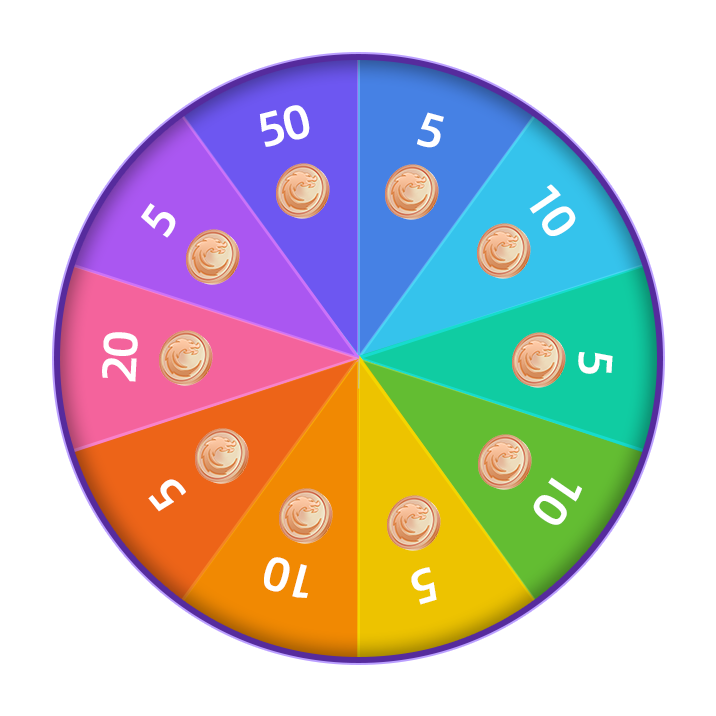
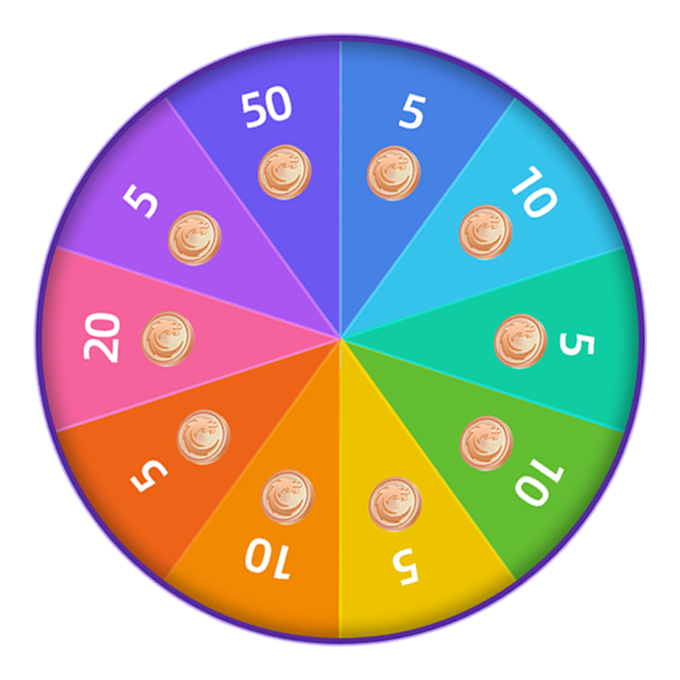
optimized spinwheel

diff --git a/src/components/SpinWheel/SpinWheel.tsx b/src/components/SpinWheel/SpinWheel.tsx
@@ -1,16 +1,52 @@
-import { LargeTitle, Spinner } from "@telegram-apps/telegram-ui";
+import { Spinner } from "@telegram-apps/telegram-ui";
 import { FC, useEffect, useState } from "react";
-import { Coins } from "../Coins/coins";
 import { UseDashFunCoins } from "../DashFun/DashFunCoins";
 import { useDashFunSpinWheel } from "../DashFun/DashFunSpinWheel";
 import { GameData } from "../DashFunData/GameData";
 import { SpinWheelConstants } from "../DashFunData/SpinWheelData";
 import { DashFunUser } from "../DashFunData/UserData";
+import { SpinWheelStatusChangedEvent } from "../Event/Events";
 import PrizePage from "./PrizePage";
 import "./spinwheel.css";
-import { SpinWheelStatusChangedEvent } from "../Event/Events";
 
-const SpinWheel: FC<{ game: GameData | null, user: DashFunUser | null }> = ({ game, user }) => {
+// const test = () => {
+//   const s = 1200;
+//   const v0 = 720;
+//   const step = 0.1;
+//   const [acc, t] = calcAcceleration(s, v0, 0);
+//   console.log("start moving:", "s=" + s, "V0=" + v0, "t=" + t, "acc=" + acc)
+//   let velocity = v0;
+//   let distance = s;
+//   for (let i = 0; i <= t; i += step) {
+//     let move = velocity * step + 0.5 * acc * (step * step);
+//     if (move < 1) move = 1;
+//     distance -= move;
+//     velocity += acc * step;
+
+//     console.log(`第${i}秒，移动 ${move}，速度 ${velocity} 剩余距离 ${distance}`)
+//   }
+// }
+
+const AniSetting = {
+  idleTime: 0.5, //起步发呆时间
+  MaxSpeed: 720, //最高速度 °/s
+  acceleDist: 360 * 3, //加速距离
+  acceleTime: 2, //加速时间，速度从0-maxSpeed
+  RunTime: 2, //平稳时间，保持maxSpeed
+  deceleTime: 2.5, //减速时间，速度从maxSpeed-0
+  deceleDist: 0, //减速距离，平稳期最后一帧生成
+}
+
+//计算匀速运动的加速度
+//@return [acc,t]
+const calcAcceleration = (s: number, v0: number, vf: number): [number, number] => {
+  const acc = (vf * vf - v0 * v0) / (2 * s);
+  const t = (vf - v0) / acc;
+  console.log("s", s, "v0", v0, "t", t, "acc", acc)
+  return [acc, t]
+}
+
+const SpinWheel: FC<{ game: GameData | null, user: DashFunUser | null }> = () => {
   const [isSpinning, setIsSpinning] = useState<boolean>(false);
   const [rotationAngle, setRotationAngle] = useState<number>(0); // 当前旋转角度
 
@@ -42,68 +78,164 @@ const SpinWheel: FC<{ game: GameData | null, user: DashFunUser | null }> = ({ ga
     // 从服务器获取得分
     const spinRes = await spin();
     if (spinRes) {
-
-      SpinWheelStatusChangedEvent.fire(spinRes.id, spinRes.status);
-
       const { rewardIndex } = spinRes;
 
       // 计算分区中心，确保转盘停在分区正中间
-      const fullRotations = 5 * 360; // 至少旋转5圈
+      // const fullRotations = 5 * 360; // 至少旋转5圈
       // const finalSegmentAngle = prizeIndex * segmentAngle; // 得分对应的分区角度
       const finalSegmentAngle = rewardIndex * segmentAngle; // 得分对应的分区角度
 
+
       // 计算分区的中心位置 (加上分区的一半 18度)
-      const targetAngle =
-        fullRotations + (360 - finalSegmentAngle - segmentAngle / 2);
+      const targetAngle = 360 - (finalSegmentAngle + segmentAngle * 0.5);
+      console.log("reward:", spinRes.rewardIndex, finalSegmentAngle, targetAngle)
 
-      const spinDuration = 5000; // 动画时长5秒
-
-      animateSpin(targetAngle, spinDuration, () => {
+      animateSpin1(targetAngle, () => {
         setCanClaim(true);
         setIsSpinning(false); // 允许再次旋转
+        SpinWheelStatusChangedEvent.fire(spinRes.id, spinRes.status);
       });
     }
   };
 
   // 旋转动画函数，逐渐减速停止
-  const animateSpin = (
+  const animateSpin1 = (
     targetAngle: number,
-    duration: number,
     onComplete: () => void
   ) => {
+
     const startTime = performance.now();
-    const currentAngle = rotationAngle; // 从当前角度开始旋转
+
+    const spinAni = {
+      lastTime: startTime,
+      deltaTime: 0,
+      elapsedTime: 0,
+      phase: 0, //0=停止阶段，1=加速阶段，2=匀速阶段，3=减速阶段
+      acc: 0, //当前加速度
+      velocity: 0, //当前速度
+      angle: 0, //当前角度
+    }
 
     const step = (timestamp: number) => {
-      const elapsedTime = timestamp - startTime;
+      spinAni.deltaTime = (timestamp - spinAni.lastTime) / 1000;
+      spinAni.lastTime = timestamp
+      switch (spinAni.phase) {
+        case 0:
+          //等半秒开始转
+          if (spinAni.elapsedTime > AniSetting.idleTime) {
+            //计算起步阶段的加速度
+            const [acc, t] = calcAcceleration(AniSetting.acceleDist, 0, AniSetting.MaxSpeed);
+            // spinAni.acc = calcAcceleration(AniSetting.acceleDist, 0, AniSetting.MaxSpeed, AniSetting.acceleTime);
+            spinAni.acc = acc;
+            AniSetting.acceleTime = t;
+            spinAni.phase = 1;
+          }
+          break;
+        case 1:
+          //起步
+          if (spinAni.angle < AniSetting.acceleDist) {
+            let move = spinAni.velocity * spinAni.deltaTime + 0.5 * spinAni.acc * (spinAni.deltaTime * spinAni.deltaTime);
+            if (move < 1) move = 1;
 
-      if (elapsedTime >= duration) {
-        setRotationAngle(targetAngle); // 动画结束，设置最终角度
-        setTimeout(() => onComplete(), 7000); // 5s动画结束，再等待两秒
-        // onComplete();
-      } else {
-        const progress = elapsedTime / duration;
-        const easedProgress = easeInOutQuint(progress); // 使用缓动函数减速
-        const currentSpinAngle =
-          currentAngle + easedProgress * (targetAngle - currentAngle);
-        setRotationAngle(currentSpinAngle); // 更新当前旋转角度
-        requestAnimationFrame(step); // 继续动画
+            spinAni.velocity += spinAni.acc * spinAni.deltaTime;
+            if (spinAni.velocity > AniSetting.MaxSpeed) {
+              spinAni.velocity = AniSetting.MaxSpeed
+            }
+            spinAni.angle += move;
+            setRotationAngle(spinAni.angle % 360);
+          } else {
+            //进入平稳期
+            spinAni.angle = AniSetting.acceleDist
+            setRotationAngle(spinAni.angle % 360);
+            spinAni.velocity = AniSetting.MaxSpeed
+            spinAni.acc = 0
+            spinAni.phase = 2;
+            console.log("加速完毕 - 当前速度:", spinAni.velocity, " 当前角度", spinAni.angle, spinAni.angle % 360)
+          }
+          break;
+        case 2:
+          //平稳期
+          if (spinAni.angle < AniSetting.acceleDist + AniSetting.MaxSpeed * AniSetting.RunTime) {
+            spinAni.angle += spinAni.velocity * spinAni.deltaTime;
+            setRotationAngle(spinAni.angle % 360);
+          } else {
+            //进入减速期
+            spinAni.angle = AniSetting.acceleDist + AniSetting.MaxSpeed * AniSetting.RunTime;
+            spinAni.velocity = AniSetting.MaxSpeed
+            console.log("current ", spinAni.angle, spinAni.angle % 360)
+            AniSetting.deceleDist = 360 * 2 + targetAngle; //减速距离，转2圈+
+            const [acc, t] = calcAcceleration(AniSetting.deceleDist, spinAni.velocity, 0)
+            spinAni.acc = acc;
+            AniSetting.deceleTime = t;
+            spinAni.phase = 3;
+            spinAni.angle = 0
+            setRotationAngle(spinAni.angle);
+          }
+          break;
+        case 3:
+          //减速期
+          if (spinAni.angle < AniSetting.deceleDist) {
+            let move = spinAni.velocity * spinAni.deltaTime + 0.5 * spinAni.acc * (spinAni.deltaTime * spinAni.deltaTime);
+            if (move < 0.3) move = 0.3;
+
+            spinAni.velocity += spinAni.acc * spinAni.deltaTime;
+            if (spinAni.velocity < 0) {
+              spinAni.velocity = 0;
+            }
+            spinAni.angle += move;
+            setRotationAngle(spinAni.angle % 360);
+          } else {
+            console.log("curr angle", spinAni.angle % 360, "target", AniSetting.deceleDist % 360, spinAni.velocity)
+            // setRotationAngle(AniSetting.deceleDist % 360);
+            setTimeout(() => onComplete(), 2000);
+            return;
+          }
       }
+      spinAni.elapsedTime = (timestamp - startTime) / 1000;
+      requestAnimationFrame(step); // 开始动画
     };
     requestAnimationFrame(step); // 开始动画
   };
 
+  // 旋转动画函数，逐渐减速停止
+  // const _animateSpin = (
+  //   targetAngle: number,
+  //   duration: number,
+  //   onComplete: () => void
+  // ) => {
+  //   const startTime = performance.now();
+  //   const currentAngle = rotationAngle; // 从当前角度开始旋转
+
+  //   const step = (timestamp: number) => {
+  //     const elapsedTime = timestamp - startTime;
+
+  //     if (elapsedTime >= duration) {
+  //       setRotationAngle(targetAngle); // 动画结束，设置最终角度
+  //       setTimeout(() => onComplete(), 7000); // 5s动画结束，再等待两秒
+  //       // onComplete();
+  //     } else {
+  //       const progress = elapsedTime / duration;
+  //       const easedProgress = easeInOutQuint(progress); // 使用缓动函数减速
+  //       const currentSpinAngle =
+  //         currentAngle + easedProgress * (targetAngle - currentAngle);
+  //       setRotationAngle(currentSpinAngle); // 更新当前旋转角度
+  //       requestAnimationFrame(step); // 继续动画
+  //     }
+  //   };
+  //   requestAnimationFrame(step); // 开始动画
+  // };
+
   // 缓动函数，模拟减速效果
   // const easeOutQuad = (t: number): number => t * (2 - t);
-  const easeInOutQuint = (t: number): number =>
-    t === 0
-  ? 0
-  : t === 1
-  ? 1
-  : t < 0.5
-  ? (Math.pow(2, 20 * t - 10)) / 2
-  : (2 - Math.pow(2, -20 * t + 10)) / 2;
-  
+  // const easeInOutQuint = (t: number): number =>
+  //   t === 0
+  //     ? 0
+  //     : t === 1
+  //       ? 1
+  //       : t < 0.5
+  //         ? (Math.pow(2, 20 * t - 10)) / 2
+  //         : (2 - Math.pow(2, -20 * t + 10)) / 2;
+
   let page = <div className="flex w-full h-full items-center justify-center">
     <Spinner size="l" />
   </div>
@@ -112,7 +244,7 @@ const SpinWheel: FC<{ game: GameData | null, user: DashFunUser | null }> = ({ ga
   if (canClaim && !isSpinning) {
     page = <PrizePage coins={coins} setCanClaim={setCanClaim} />
   } else if (spinWheel != null) {
-  // } else {
+    // } else {
     page = <>
       <div className="spin-wheel-container">
         <div className="wheelRing">
@@ -137,7 +269,7 @@ const SpinWheel: FC<{ game: GameData | null, user: DashFunUser | null }> = ({ ga
           spinWheel?.status !== SpinWheelConstants.Status.Spin
           ? "bg-gray-500"
           : "bg-blue-500"
-          } w-full text-xl font-bold text-white py-2 rounded-md`}
+          } w-full text-xl font-bold text-white py-2 mb-1 rounded-md`}
         onClick={handleSpin}
         disabled={
           isSpinning ||
@@ -152,14 +284,6 @@ const SpinWheel: FC<{ game: GameData | null, user: DashFunUser | null }> = ({ ga
 
   return (
     <div className="h-full flex flex-wrap items-center content-evenly">
-      <Coins game={game} user={user} onSelected={c => {
-        console.log(c);
-      }} />
-      <div className="w-full flex justify-center items-center">
-        <LargeTitle weight="3">
-          Spin & Win Daily
-        </LargeTitle>
-      </div>
       {page}
     </div>
   );

diff --git a/src/pages/GamePage/GameWrapper.tsx b/src/pages/GamePage/GameWrapper.tsx
@@ -3,7 +3,7 @@ import { GameData } from '@/components/DashFunData/GameData';
 import { GameLauncher } from '@/components/GameLauncher/GameLauncher';
 import { TaskApi, TGLink, UserApi } from '@/utils/DashFunApi';
 import { useInitData, useLaunchParams, useUtils } from '@telegram-apps/sdk-react';
-import { Avatar, Badge, Button, Modal, Tabbar, Text } from '@telegram-apps/telegram-ui';
+import { Avatar, Badge, Button, LargeTitle, Modal, Tabbar, Text } from '@telegram-apps/telegram-ui';
 import { SectionHeader } from '@telegram-apps/telegram-ui/dist/components/Blocks/Section/components/SectionHeader/SectionHeader';
 import { ModalHeader } from '@telegram-apps/telegram-ui/dist/components/Overlays/Modal/components/ModalHeader/ModalHeader';
 import { useEffect, useState, type FC } from 'react';
@@ -17,6 +17,7 @@ import { getCoinIcon, TaskStatus } from '@/constats';
 import SpinWheel from '@/components/SpinWheel/SpinWheel';
 import { useDashFunSpinWheel } from '@/components/DashFun/DashFunSpinWheel';
 import { SpinWheelConstants } from '@/components/DashFunData/SpinWheelData';
+import { Coins } from '@/components/Coins/coins';
 
 
 export const GameWrapper: FC = () => {
@@ -135,7 +136,18 @@ export const GameWrapper: FC = () => {
 				</div>
 				<i className="fa-regular fa-life-ring text-2xl"></i>
 			</div>,
-			component: <SpinWheel user={user} game={game} />
+			component: <>
+				<Coins game={game} user={user} onSelected={c => {
+					console.log("ccc", c);
+				}} />
+				<div className="w-full flex justify-center items-center">
+					<LargeTitle weight="3">
+						Spin & Win Daily
+					</LargeTitle>
+				</div>
+				<SpinWheel user={user} game={game} />
+			</>
+
 		},
 	];
 

diff --git a/src/components/SpinWheel/spinwheel.css b/src/components/SpinWheel/spinwheel.css
@@ -18,7 +18,7 @@
   width: 100%;
   height: 100%;
   position: absolute;
-  transition: transform 5s ease-out; /* 平滑旋转效果，持续时间与JS一致 */
+  /*transition: transform 5s ease-out;*/ /* 平滑旋转效果，持续时间与JS一致 */
 }
 
 .pointer {
